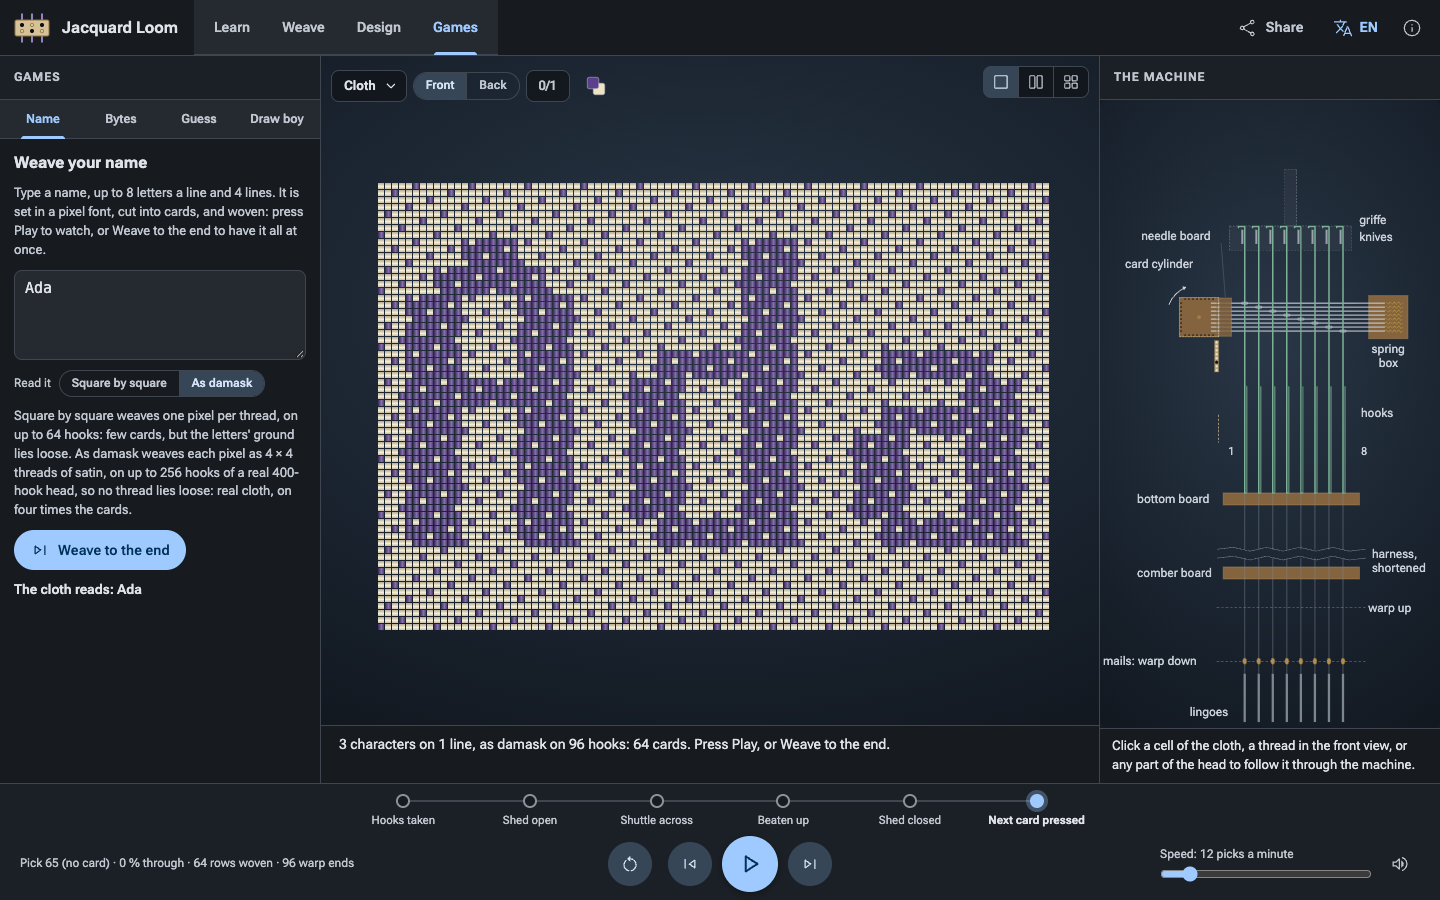
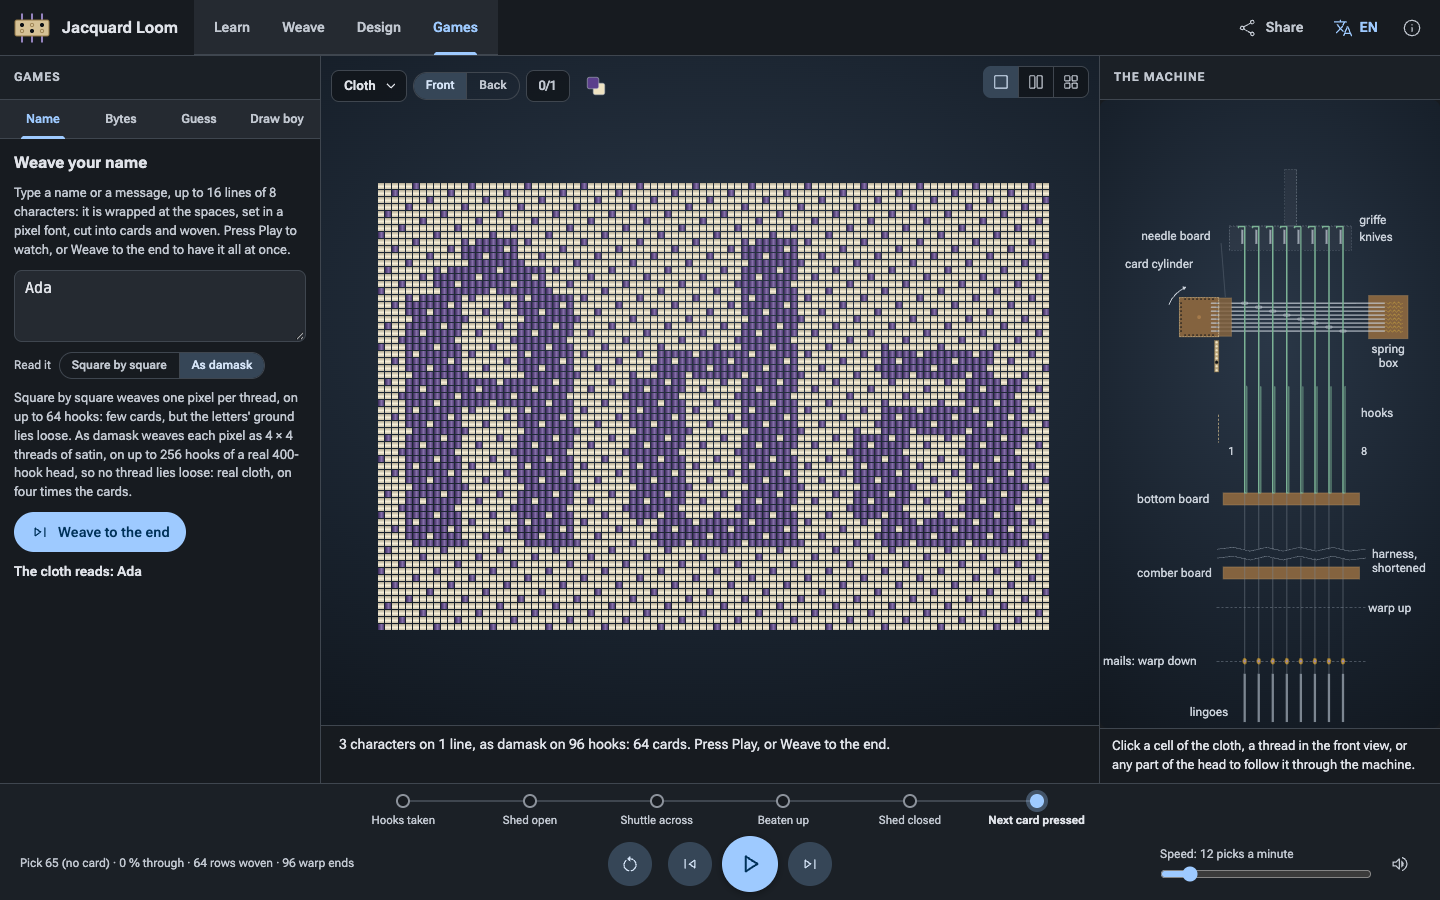
The app opens on the tab it was left on, Design and Games too (was Learn or Weave only), and Games on the game last chosen; L-9 checks both; the README: the tab and language kept, js/game/ in the map, the link format's Design and games, the Unscii credit; its Design and Games shots taken again

Changed region(s): [[0.0, 0.3733, 0.2188, 0.6844], [0.0, 0.1867, 0.2188, 0.28]]

diff --git a/js/accept/m7Checks.js b/js/accept/m7Checks.js
@@ -306,15 +306,15 @@ async function viewMenu({ store }) {
 }
 
 /**
- * L-9: without a link a newcomer opens on Learn, with the whole loom in 3D; once Weave is the
- * last workspace used, the app opens on Weave; a link decides for itself.
+ * L-9: without a link a newcomer opens on Learn, with the whole loom in 3D; after that the app
+ * opens on the last workspace used (Weave, Design, Games, on its game); a link decides for itself.
  * @returns {Promise<CheckResult>}
  */
 async function opening() {
   /** @type {string[]} */
   const bad = [];
-  const kept = { ws: localStorage.getItem("jacquard.workspace"), tut: localStorage.getItem("jacquard.tutorial") };
-  /** @param {string} url @returns {Promise<{ ws: string; views: string }>} */
+  const kept = { ws: localStorage.getItem("jacquard.workspace"), tut: localStorage.getItem("jacquard.tutorial"), game: localStorage.getItem("jacquard.game") };
+  /** @param {string} url @returns {Promise<{ ws: string; views: string; game: string }>} */
   const open = async (url) => {
     const f = document.createElement("iframe");
     f.style.cssText = "position: fixed; left: 0; top: 0; width: 1366px; height: 768px; border: 0; visibility: hidden; z-index: -1";
@@ -325,8 +325,9 @@ async function opening() {
     for (let k = 0; k < 50 && !doc.querySelector(".app .player"); k++) await sleep(100);
     const app = /** @type {HTMLElement} */ (doc.querySelector(".app"));
     const views = [...doc.querySelectorAll(".stage .view-chip .view-name")].map((e) => e.textContent).join(",");
+    const game = /** @type {HTMLElement | null} */ (doc.querySelector('.game-tabs [aria-selected="true"]'))?.dataset.game ?? "";
     f.remove();
-    return { ws: app.dataset.ws ?? "", views };
+    return { ws: app.dataset.ws ?? "", views, game };
   };
   localStorage.removeItem("jacquard.workspace");
   localStorage.removeItem("jacquard.tutorial");
@@ -335,12 +336,19 @@ async function opening() {
   localStorage.setItem("jacquard.workspace", "weave");
   const again = await open("index.html");
   if (again.ws !== "weave") bad.push(`after Weave the app opens on ${again.ws}`);
+  localStorage.setItem("jacquard.workspace", "create");
+  const design = await open("index.html");
+  if (design.ws !== "create") bad.push(`after Design the app opens on ${design.ws}`);
+  localStorage.setItem("jacquard.workspace", "play");
+  localStorage.setItem("jacquard.game", "guess");
+  const games = await open("index.html");
+  if (games.ws !== "play" || games.game !== "guess") bad.push(`after Games on guess the cloth the app opens on ${games.ws}, ${games.game}`);
   localStorage.setItem("jacquard.workspace", "learn");
   const linked = await open("index.html#v=2&w=weave");
   if (linked.ws !== "weave") bad.push(`a Weave link opens ${linked.ws}`);
-  for (const [k, v] of Object.entries({ "jacquard.workspace": kept.ws, "jacquard.tutorial": kept.tut })) {
+  for (const [k, v] of Object.entries({ "jacquard.workspace": kept.ws, "jacquard.tutorial": kept.tut, "jacquard.game": kept.game })) {
     if (v === null) localStorage.removeItem(k);
     else localStorage.setItem(k, v);
   }
-  return result("L-9", "A newcomer opens on Learn with the whole loom in 3D; after Weave, the app opens on Weave; a link decides for itself", bad.length === 0, bad.slice(0, 4).join("; ") || "newcomer: Learn, 3D; then Weave; a Weave link: Weave");
+  return result("L-9", "A newcomer opens on Learn with the whole loom in 3D; after that, on the workspace last used (Games on its game); a link decides for itself", bad.length === 0, bad.slice(0, 4).join("; ") || "newcomer: Learn, 3D; then Weave, Design, Games on guess the cloth; a Weave link: Weave");
 }

diff --git a/js/app/play.js b/js/app/play.js
@@ -11,6 +11,7 @@ import { msg } from "../l10n/l10n.js";
 import { Loom } from "../sim/loom.js";
 import { makeDeck } from "../sim/deck.js";
 import * as act from "./looms.js";
+import { GAMES } from "./playState.js";
 /** @import { AppStore } from "./looms.js" */
 /** @import { GameName, PlayState } from "./playState.js" */
 /** @import { Deck } from "../sim/deck.js" */
@@ -75,6 +76,37 @@ function make(store, p) {
  * @param {(p: PlayState) => PlayState} f
  */
 export const setPlay = (store, f) => make(store, f(store.state.play));
+
+/** The game last chosen on this device (the tab Games opens on), kept as the workspace is. */
+const GAME = "jacquard.game";
+
+/** @returns {GameName | undefined} */
+export function rememberedGame() {
+  try {
+    const g = localStorage.getItem(GAME);
+    return g !== null && /** @type {readonly string[]} */ (GAMES).includes(g) ? /** @type {GameName} */ (g) : undefined;
+  } catch {
+    return undefined;
+  }
+}
+
+/**
+ * Remember the game each time another is chosen.
+ * @param {AppStore} store
+ * @returns {() => void}
+ */
+export function watchGame(store) {
+  return store.watch(
+    (s) => [s.play.game],
+    () => {
+      try {
+        localStorage.setItem(GAME, store.state.play.game);
+      } catch {
+        // not remembered
+      }
+    },
+  );
+}
 
 /** Open Play, on a game (or the one on show). @param {AppStore} store @param {GameName} [game] */
 export function openPlay(store, game) {

diff --git a/js/main.js b/js/main.js
@@ -4,8 +4,10 @@
 
 import { chooseLanguage, initialLanguage } from "./app/language.js";
 import { openLearn, openingWorkspace, watchWorkspace } from "./app/learn.js";
+import { openCreate } from "./app/create.js";
 import { openLink } from "./app/links.js";
 import { appState, setViews } from "./app/looms.js";
+import { openPlay, rememberedGame, watchGame } from "./app/play.js";
 import { createShell, openingViews } from "./app/shell.js";
 import { Store } from "./app/store.js";
 
@@ -15,8 +17,14 @@ setViews(store, openingViews());
 // Without a link, the app opens where it was left on this device; a newcomer, on Learn. A link
 // that cannot be read opens Weave, whose status line says why.
 const linked = await openLink(store, location.hash);
-if (!linked && location.hash.length <= 1 && openingWorkspace() === "learn") openLearn(store);
+if (!linked && location.hash.length <= 1) {
+  const w = openingWorkspace();
+  if (w === "learn") openLearn(store);
+  else if (w === "create") openCreate(store);
+  else if (w === "play") openPlay(store, rememberedGame());
+}
 watchWorkspace(store);
+watchGame(store);
 const shell = createShell(store, /** @type {HTMLElement} */ (document.getElementById("app")));
 window.addEventListener("hashchange", () => openLink(store, location.hash));
 

diff --git a/js/app/learn.js b/js/app/learn.js
@@ -4,6 +4,7 @@
 // and coming back resumes it. The steps themselves are in js/teach/tutorial.js.
 
 import { loomAt, pictureAt, shownAt, stepIndex, STEPS } from "../teach/tutorial.js";
+import { WORKSPACES } from "../sim/link.js";
 import * as act from "./looms.js";
 /** @import { AppStore } from "./looms.js" */
 
@@ -19,7 +20,8 @@ const WORKSPACE = "jacquard.workspace";
  */
 export function openingWorkspace() {
   try {
-    return localStorage.getItem(WORKSPACE) === "weave" ? "weave" : "learn";
+    const w = localStorage.getItem(WORKSPACE);
+    return w !== null && /** @type {readonly string[]} */ (WORKSPACES).includes(w) ? /** @type {import("./looms.js").Workspace} */ (w) : "learn";
   } catch {
     return "learn";
   }

diff --git a/tests/app/learn.test.js b/tests/app/learn.test.js
@@ -135,8 +135,14 @@ describe("what the device keeps", () => {
     act.setWorkspace(s, "learn");
     act.setWorkspace(s, "weave");
     assert.equal(openingWorkspace(), "weave");
+    act.setWorkspace(s, "create");
+    assert.equal(openingWorkspace(), "create");
+    act.setWorkspace(s, "play");
+    assert.equal(openingWorkspace(), "play");
     act.setWorkspace(s, "learn");
     assert.equal(openingWorkspace(), "learn");
+    storage().setItem("jacquard.workspace", "elsewhere");
+    assert.equal(openingWorkspace(), "learn", "anything else kept opens Learn");
   });
   it("without storage (a private window) the app still opens, on Learn", () => {
     /** @type {any} */ (globalThis).localStorage = undefined;

diff --git a/README.md b/README.md
@@ -30,7 +30,8 @@ install, on a computer or a phone, in ten languages.
 
 1. Open the simulator, [online](https://wixette.github.io/jacquard-loom-simulator/) or
    [on your own machine](#run-it-locally). The first time, it opens on **Learn**, the
-   tutorial, with the whole loom in 3D.
+   tutorial, with the whole loom in 3D; after that, on the tab you left it on, in the language
+   you chose.
 2. Click **Weave** in the top bar. The loom has eight cards on it: an arrow.
 3. Click **▶** under the drawings, or press Space.
 
@@ -131,7 +132,6 @@ picture as a link.
 
 ![Games: the name game has woven "Ada" in damask, and reads the cloth back; the head is in section on the right](./screenshots/readme-play.png)
 
-
 | Game | What you do |
 |---|---|
 | **The name game** | Type your name, or a message of up to 16 lines of 8 characters; the loom weaves it in a pixel font, square by square or as damask, and reads the cloth back |
@@ -200,8 +200,9 @@ browser.
 | [index.html](index.html), [css/](css/), [js/main.js](js/main.js) | The app: one page, one store |
 | [js/sim/](js/sim/) | The machine, as pure logic: the cards, the head, the pick's cycle, the cloth, the links |
 | [js/view2d/](js/view2d/), [js/scene/](js/scene/) | The 2D drawings (SVG) and the 3D models (three.js) |
-| [js/app/](js/app/) | The frame, the views and panels as components, the tutorial's mode, the keyboard, the sounds |
+| [js/app/](js/app/) | The frame, the views and panels as components, the four workspaces, the keyboard, the sounds |
 | [js/teach/](js/teach/) | The tutorial's steps, as data |
+| [js/game/](js/game/) | The four games' logic, and the name game's font |
 | [js/l10n/](js/l10n/) | Every text, in ten languages |
 | [params/](params/), [blender/scripts/](blender/scripts/), [assets/](assets/) | The dimensions, the headless Blender scripts that build the models from them, and the models (Git LFS) |
 | [dev/](dev/) | Developer pages, one for each stage of the work |
@@ -213,8 +214,9 @@ the design principles in [docs/ui-design.md](docs/ui-design.md).
 
 ### The link format
 
-A link opens the app in a state: a loom (its cards, head, tie-up, moment and views) or a step
-of the tutorial. The fields go after `#`, so they never reach the server:
+A link opens the app in a state: a loom (its cards, head, tie-up, moment and views), a step of
+the tutorial, a picture in Design, or a game. The fields go after `#`, so they never reach the
+server:
 
 ```
 https://wixette.github.io/jacquard-loom-simulator/#v=2&h=8&c=x.18-18-18-18-99-5a-3c-18&l=0
@@ -243,7 +245,8 @@ The tutorial's pictures are public domain or freely licensed, each credited wher
 The machine's sounds were edited from [Pixabay](https://pixabay.com/) sound effects
 ([audio/SOURCES.md](audio/SOURCES.md)). The interface and its languages follow the sibling
 [Stepped Reckoner](https://github.com/wixette/leibniz-stepped-reckoner) simulator. Built with
-[three.js](https://threejs.org); set in Roboto Flex, with Material Symbols icons.
+[three.js](https://threejs.org); set in Roboto Flex, with Material Symbols icons. The name game
+weaves in [Unscii](http://viznut.fi/unscii/) 8 × 16, Viznut's public-domain pixel font.
 
 ## Licence
 

diff --git a/design/ui-layout.md b/design/ui-layout.md
@@ -52,7 +52,7 @@ Four workspaces, as tabs in the top bar. The home slots stay the same; what chan
 | **Design** (the picture tool; `w=create`) | The picture editor (how it is read, the size, presets, open an image, the paper), and under it the cards it makes (read-only chain) with "Open in Weave" | The cloth, large, with the loose threads marked | The machine: the head in section | Transport |
 | **Games** (the mini games; `w=play`) | The game's panel: a tab per game, its input, its choices and score | The cloth | The machine: the head in section | Transport |
 
-A newcomer's app opens on **Learn**, at the tutorial's first step, with the whole loom in 3D: an overall picture of the machine first. After that it opens on the workspace last used on the device (kept in the browser's local storage, so it lasts beyond a session): a learner who went on to Weave opens in Weave with its 2D section, one who went back to finish the tutorial opens in Learn at their step. A link decides for itself, and a link that cannot be read opens Weave, whose status line says why. (Revised after M7's review, 2026-10-27; the first plan opened on Weave with a "Take the tour" banner.) A link can open any workspace and step: `?w=learn&step=weave-twill`, `?w=play&game=name&text=Ada`. Steps are named, not numbered, so a link survives a step added before it.
+A newcomer's app opens on **Learn**, at the tutorial's first step, with the whole loom in 3D: an overall picture of the machine first. After that it opens on the workspace last used on the device (kept in the browser's local storage, so it lasts beyond a session): a learner who went on to Weave opens in Weave with its 2D section, one who went back to finish the tutorial opens in Learn at their step; Design opens on its picture (kept too), Games on the game last chosen (0.2.0). A link decides for itself, and a link that cannot be read opens Weave, whose status line says why. (Revised after M7's review, 2026-10-27; the first plan opened on Weave with a "Take the tour" banner.) A link can open any workspace and step: `?w=learn&step=weave-twill`, `?w=play&game=name&text=Ada`. Steps are named, not numbered, so a link survives a step added before it.
 
 **Learn is a mode,** as the sibling's lessons are (its U2 and U27): while it is on, the Learn tab is selected and the stage has a thin blue frame, and the step's card says where the learner is ("Part 3 · Weave · 2/8"; the top bar does not repeat it: a tab that grew with it moved the Weave tab and outgrew its own underline), and the controls a step does not use (those that change the cards or the loom; the transport, the views and following stay free) are greyed, and pressed say the reason, which says the way out ("…to use everything freely, go to Weave"). Leaving Learn keeps the place, and gives Weave's loom and views back; coming back resumes it, with the step's loom as it starts.
 

diff --git a/CHANGELOG.md b/CHANGELOG.md
@@ -9,6 +9,7 @@ What changed in each release. Versions follow `package.json` and are tagged `vX.
 - **Learn:** the tutorial's parts 4 (four debugging challenges, each with the cloth it should weave), 5 (your tools) and 6 (what came next: Babbage, Lovelace, Hollerith, the computer).
 - The cloth as a view of its own, last in the view menu.
 - The workspaces are Learn, Weave, Design and Games (the last two first called Create and Play; their links keep `w=create` and `w=play`).
+- The app opens on the tab it was left on, Design and Games too (0.1.0 remembered only Learn or Weave), and Games on the game last chosen; the language chosen is kept as before.
 
 ## 0.1.0
 
